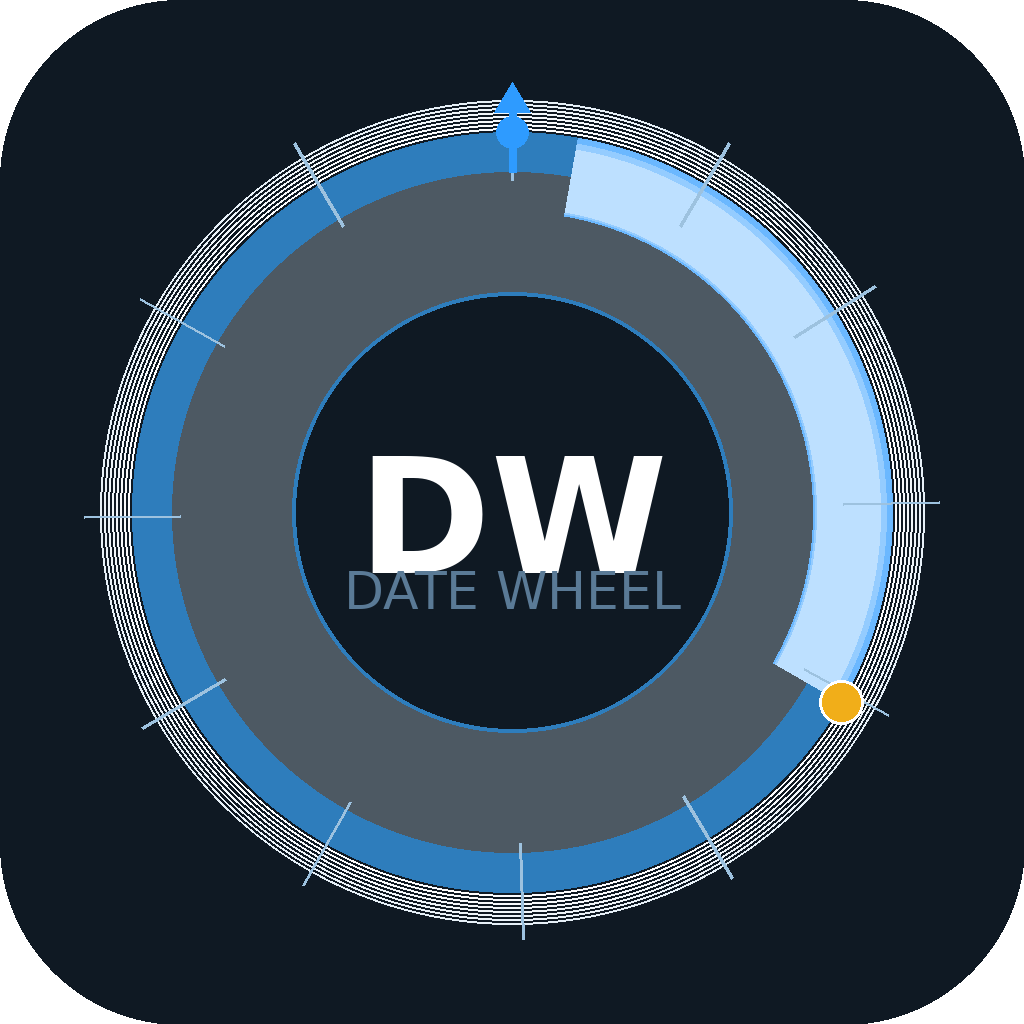
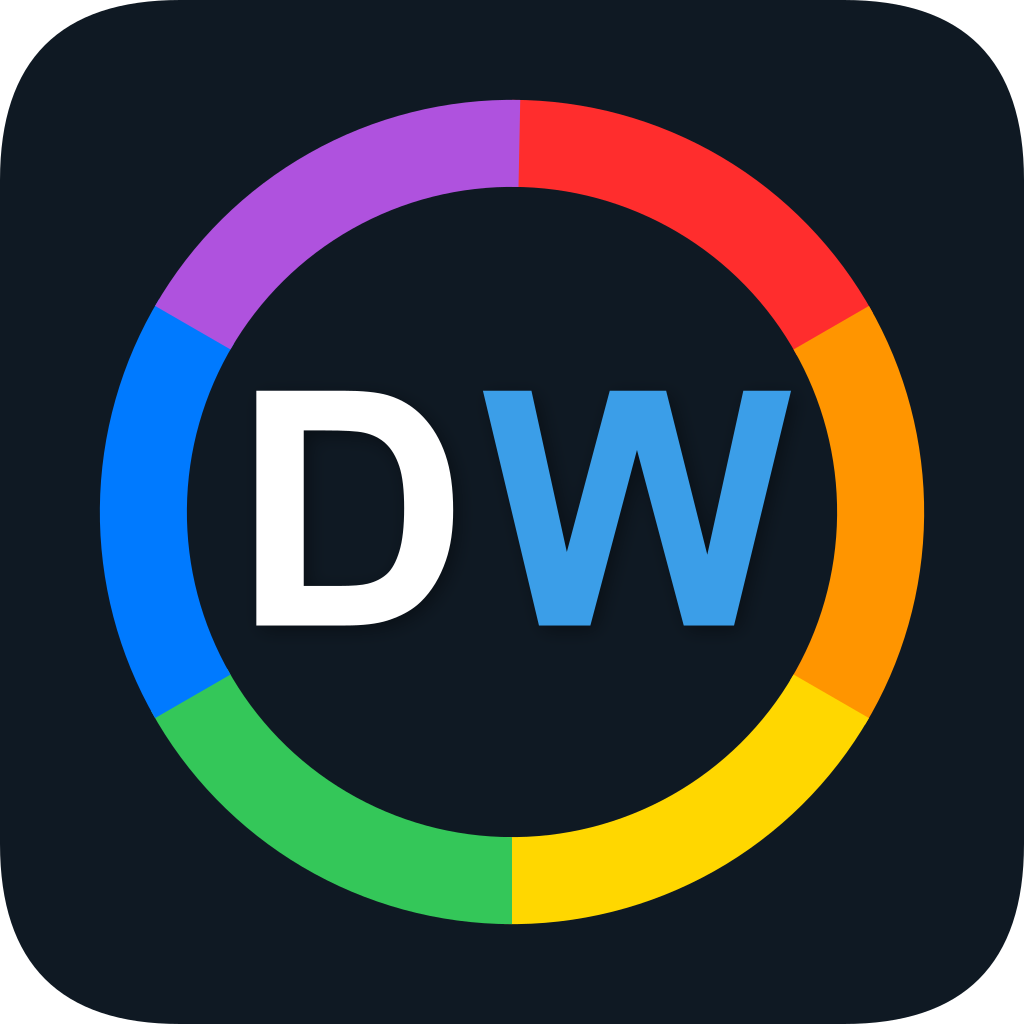
name first task on new

diff --git a/scripts/generate-icon.js b/scripts/generate-icon.js
@@ -1,0 +1,214 @@
+/**
+ * Generates app icon PNGs using node-canvas.
+ * Run: node scripts/generate-icon.js
+ *
+ * Design: dark navy background, bold red ring, white "D" + blue "W" centered.
+ */
+const { createCanvas } = require('canvas');
+const fs = require('fs');
+const path = require('path');
+
+const OUT = path.join(__dirname, '..', 'assets', 'images');
+
+// ── helpers ────────────────────────────────────────────────────────────────
+
+function roundedRect(ctx, x, y, w, h, r) {
+  ctx.beginPath();
+  ctx.moveTo(x + r, y);
+  ctx.lineTo(x + w - r, y);
+  ctx.quadraticCurveTo(x + w, y, x + w, y + r);
+  ctx.lineTo(x + w, y + h - r);
+  ctx.quadraticCurveTo(x + w, y + h, x + w - r, y + h);
+  ctx.lineTo(x + r, y + h);
+  ctx.quadraticCurveTo(x, y + h, x, y + h - r);
+  ctx.lineTo(x, y + r);
+  ctx.quadraticCurveTo(x, y, x + r, y);
+  ctx.closePath();
+}
+
+/**
+ * Draw the icon artwork onto `ctx`.
+ * @param {CanvasRenderingContext2D} ctx
+ * @param {number} size  - canvas dimension (square)
+ * @param {object} opts
+ *   bg          - background color or null for transparent
+ *   cornerRadius- 0 for no rounding (adaptive layers)
+ *   ringScale   - fraction of size for ring radius (default 0.36)
+ */
+function drawIcon(ctx, size, { bg = '#0F1923', cornerRadius = 0, ringScale = 0.36 } = {}) {
+  const cx = size / 2;
+  const cy = size / 2;
+  const ringRadius = size * ringScale;
+  const ringWidth  = size * 0.085;
+
+  // Background
+  if (bg) {
+    ctx.save();
+    if (cornerRadius > 0) {
+      roundedRect(ctx, 0, 0, size, size, cornerRadius);
+      ctx.fillStyle = bg;
+      ctx.fill();
+      ctx.clip();
+    } else {
+      ctx.fillStyle = bg;
+      ctx.fillRect(0, 0, size, size);
+    }
+    ctx.restore();
+  }
+
+  // ── Multicolored ring — 6 equal arc segments ─────────────────────────────
+  const segments = [
+    { color: '#FF2D2D' },  // red
+    { color: '#FF9500' },  // orange
+    { color: '#FFD700' },  // yellow
+    { color: '#34C759' },  // green
+    { color: '#007AFF' },  // blue
+    { color: '#AF52DE' },  // purple
+  ];
+  const segAngle = (Math.PI * 2) / segments.length;
+  const startOffset = -Math.PI / 2; // start at top
+
+  ctx.save();
+  ctx.lineWidth = ringWidth;
+  ctx.lineCap = 'butt';
+  segments.forEach((seg, i) => {
+    const start = startOffset + i * segAngle;
+    const end   = start + segAngle + 0.02; // tiny overlap to avoid hairline gaps
+    ctx.beginPath();
+    ctx.strokeStyle = seg.color;
+    ctx.arc(cx, cy, ringRadius, start, end);
+    ctx.stroke();
+  });
+  ctx.restore();
+
+  // ── "DW" text ────────────────────────────────────────────────────────────
+  const fontSize = Math.round(size * 0.32);
+  const font     = `bold ${fontSize}px "Arial Black", "Arial Bold", Arial, sans-serif`;
+  const gap      = size * 0.012; // small gap between D and W
+
+  ctx.save();
+  ctx.textBaseline = 'middle';
+  ctx.font = font;
+
+  // Measure both chars to center the pair
+  const dW  = ctx.measureText('D').width;
+  const wW  = ctx.measureText('W').width;
+  const totalW = dW + gap + wW;
+  const startX = cx - totalW / 2;
+
+  // D – white with subtle drop shadow
+  ctx.shadowColor  = 'rgba(0,0,0,0.4)';
+  ctx.shadowBlur   = size * 0.015;
+  ctx.shadowOffsetX = size * 0.005;
+  ctx.shadowOffsetY = size * 0.005;
+  ctx.fillStyle = '#FFFFFF';
+  ctx.fillText('D', startX, cy);
+
+  // W – blue
+  ctx.fillStyle = '#3B9EE8';
+  ctx.fillText('W', startX + dW + gap, cy);
+  ctx.restore();
+}
+
+// ── icon.png  (1024×1024, iOS-style rounded bg) ────────────────────────────
+function genIcon() {
+  const s = 1024;
+  const c = createCanvas(s, s);
+  drawIcon(c.getContext('2d'), s, { bg: '#0F1923', cornerRadius: 180 });
+  fs.writeFileSync(path.join(OUT, 'icon.png'), c.toBuffer('image/png'));
+  console.log('✓ icon.png');
+}
+
+// ── adaptive-icon.png  (1024×1024, no bg — Android clips its own shape) ───
+function genAdaptive() {
+  const s = 1024;
+  const c = createCanvas(s, s);
+  // Draw on transparent (no bg), ring slightly smaller so it fits safe zone
+  drawIcon(c.getContext('2d'), s, { bg: null, cornerRadius: 0, ringScale: 0.30 });
+  fs.writeFileSync(path.join(OUT, 'adaptive-icon.png'), c.toBuffer('image/png'));
+  console.log('✓ adaptive-icon.png');
+}
+
+// ── android-icon-background.png (solid navy) ───────────────────────────────
+function genAndroidBg() {
+  const s = 1024;
+  const c = createCanvas(s, s);
+  const ctx = c.getContext('2d');
+  ctx.fillStyle = '#0F1923';
+  ctx.fillRect(0, 0, s, s);
+  fs.writeFileSync(path.join(OUT, 'android-icon-background.png'), c.toBuffer('image/png'));
+  console.log('✓ android-icon-background.png');
+}
+
+// ── android-icon-foreground.png (transparent bg, ring + DW) ───────────────
+function genAndroidFg() {
+  const s = 1024;
+  const c = createCanvas(s, s);
+  drawIcon(c.getContext('2d'), s, { bg: null, cornerRadius: 0, ringScale: 0.30 });
+  fs.writeFileSync(path.join(OUT, 'android-icon-foreground.png'), c.toBuffer('image/png'));
+  console.log('✓ android-icon-foreground.png');
+}
+
+// ── android-icon-monochrome.png (white on transparent) ─────────────────────
+function genAndroidMono() {
+  const s = 1024;
+  const c = createCanvas(s, s);
+  const ctx = c.getContext('2d');
+
+  const cx = s / 2, cy = s / 2;
+  const ringRadius = s * 0.30;
+  const ringWidth  = s * 0.085;
+
+  // Ring – white
+  ctx.strokeStyle = '#FFFFFF';
+  ctx.lineWidth   = ringWidth;
+  ctx.beginPath();
+  ctx.arc(cx, cy, ringRadius, 0, Math.PI * 2);
+  ctx.stroke();
+
+  // DW – white
+  const fontSize = Math.round(s * 0.32);
+  const font = `bold ${fontSize}px "Arial Black", "Arial Bold", Arial, sans-serif`;
+  ctx.font = font;
+  ctx.textBaseline = 'middle';
+  const dW = ctx.measureText('D').width;
+  const wW = ctx.measureText('W').width;
+  const gap = s * 0.012;
+  const totalW = dW + gap + wW;
+  const startX = cx - totalW / 2;
+  ctx.fillStyle = '#FFFFFF';
+  ctx.fillText('D', startX, cy);
+  ctx.fillText('W', startX + dW + gap, cy);
+
+  fs.writeFileSync(path.join(OUT, 'android-icon-monochrome.png'), c.toBuffer('image/png'));
+  console.log('✓ android-icon-monochrome.png');
+}
+
+// ── favicon.png (48×48) ────────────────────────────────────────────────────
+function genFavicon() {
+  const s = 48;
+  const c = createCanvas(s, s);
+  drawIcon(c.getContext('2d'), s, { bg: '#0F1923', cornerRadius: 8, ringScale: 0.36 });
+  fs.writeFileSync(path.join(OUT, 'favicon.png'), c.toBuffer('image/png'));
+  console.log('✓ favicon.png');
+}
+
+// ── splash-icon.png  (just the DW mark, no bg, for splash overlay) ─────────
+function genSplash() {
+  const s = 400;
+  const c = createCanvas(s, s);
+  drawIcon(c.getContext('2d'), s, { bg: null, cornerRadius: 0, ringScale: 0.36 });
+  fs.writeFileSync(path.join(OUT, 'splash-icon.png'), c.toBuffer('image/png'));
+  console.log('✓ splash-icon.png');
+}
+
+// ── run all ────────────────────────────────────────────────────────────────
+genIcon();
+genAdaptive();
+genAndroidBg();
+genAndroidFg();
+genAndroidMono();
+genFavicon();
+genSplash();
+
+console.log('\nAll icons written to assets/images/');

diff --git a/app/index.tsx b/app/index.tsx
@@ -1667,6 +1667,7 @@ export default function Index() {
           setStepModes({});
           setTappedTaskId(null);
           setDragDisplayDates(null);
+          setTaskNameVisible(true);
         },
       },
     ]);
